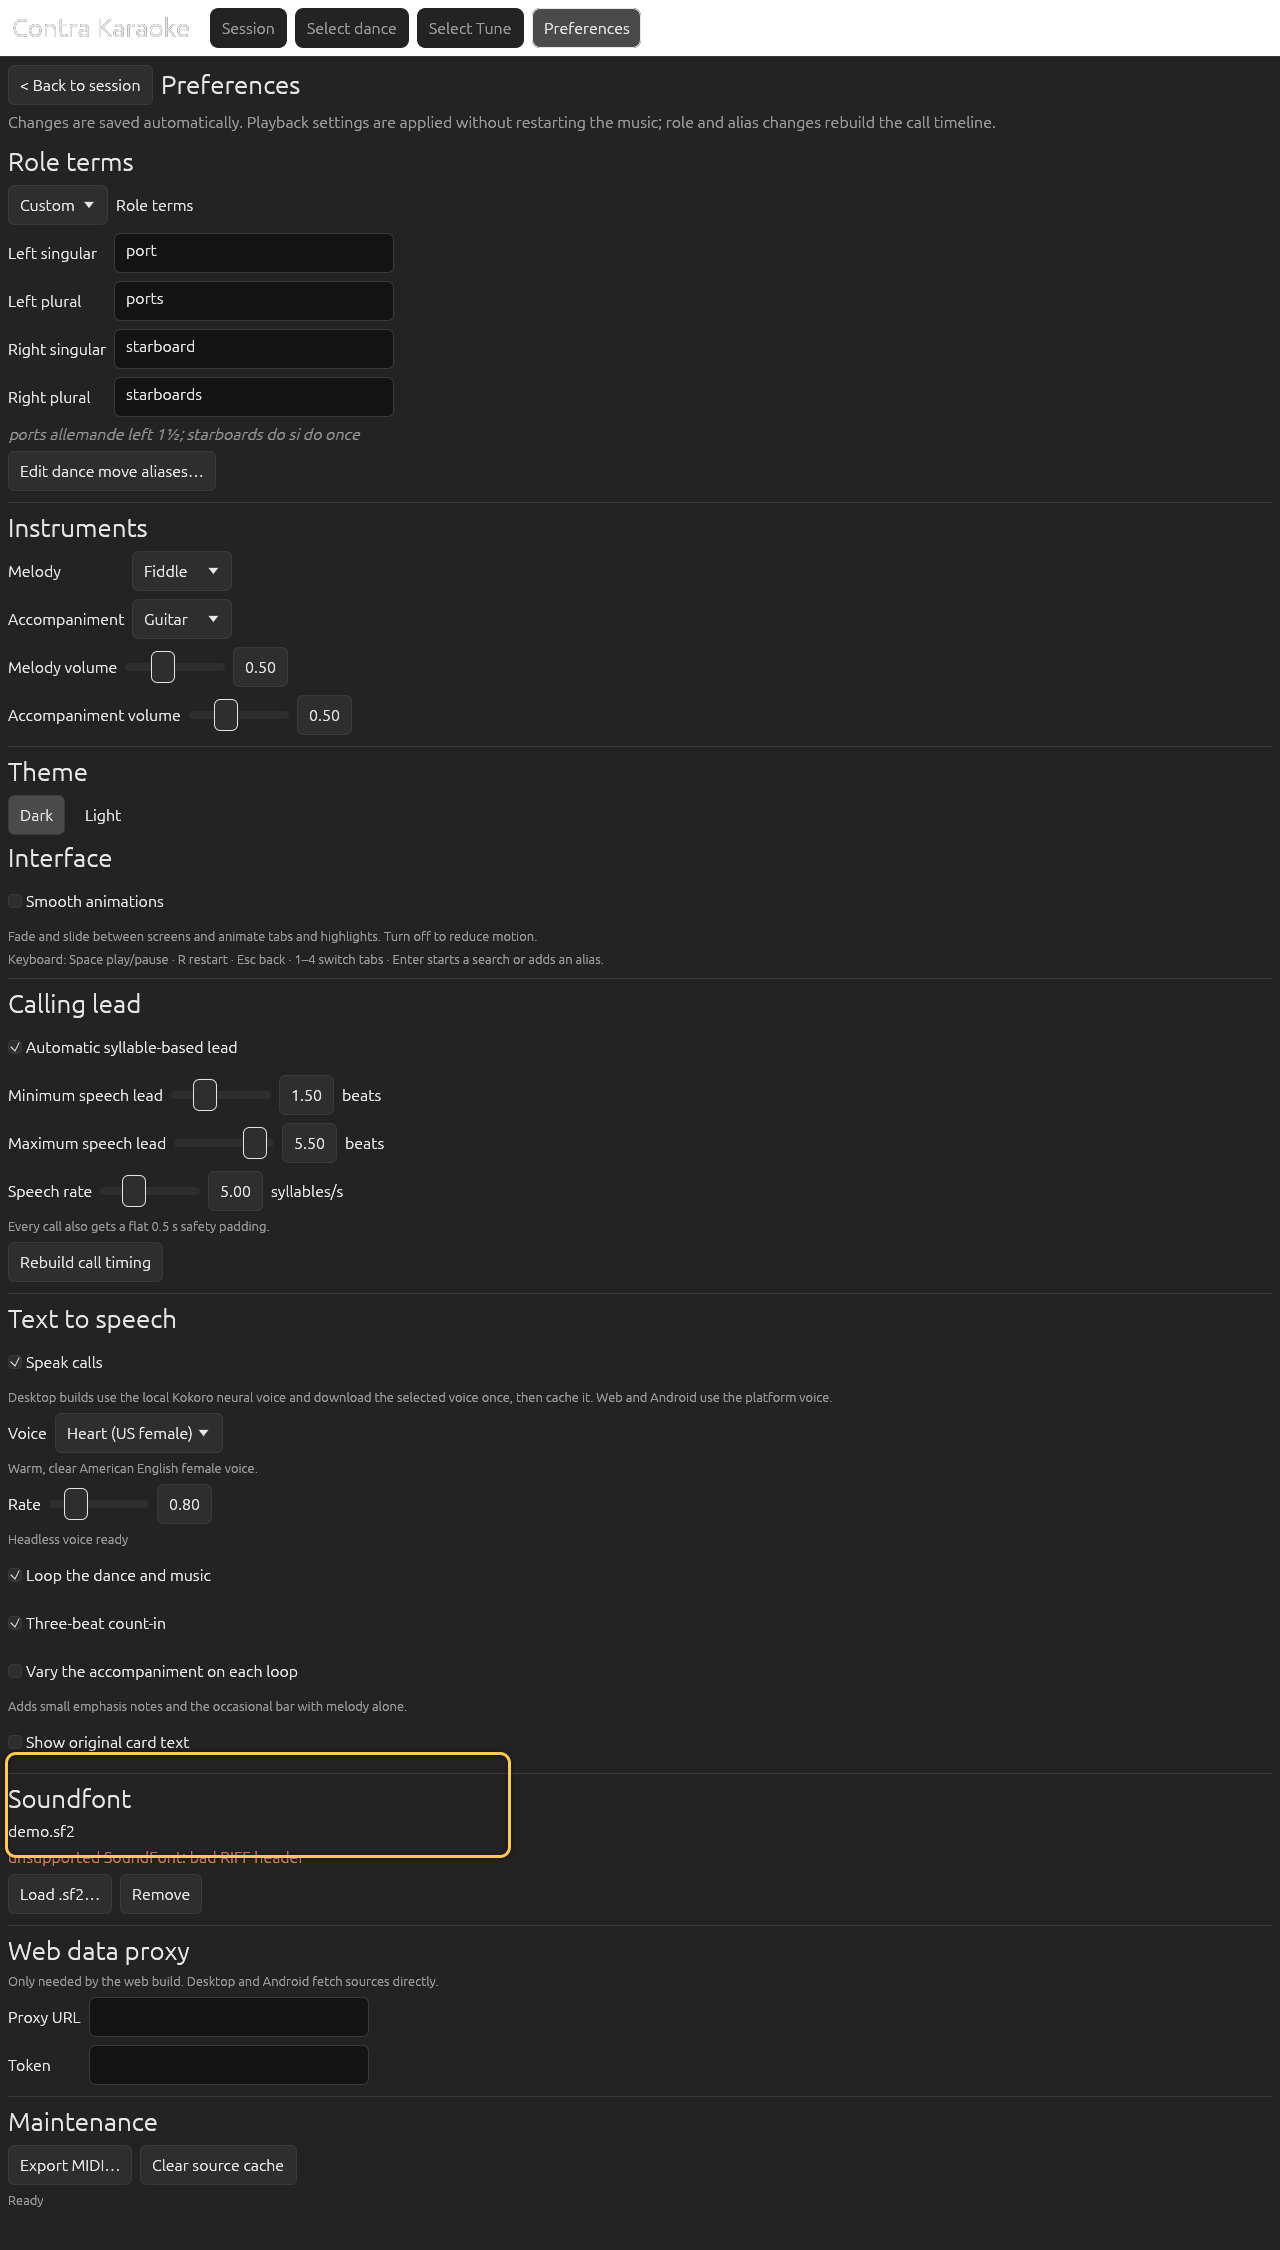
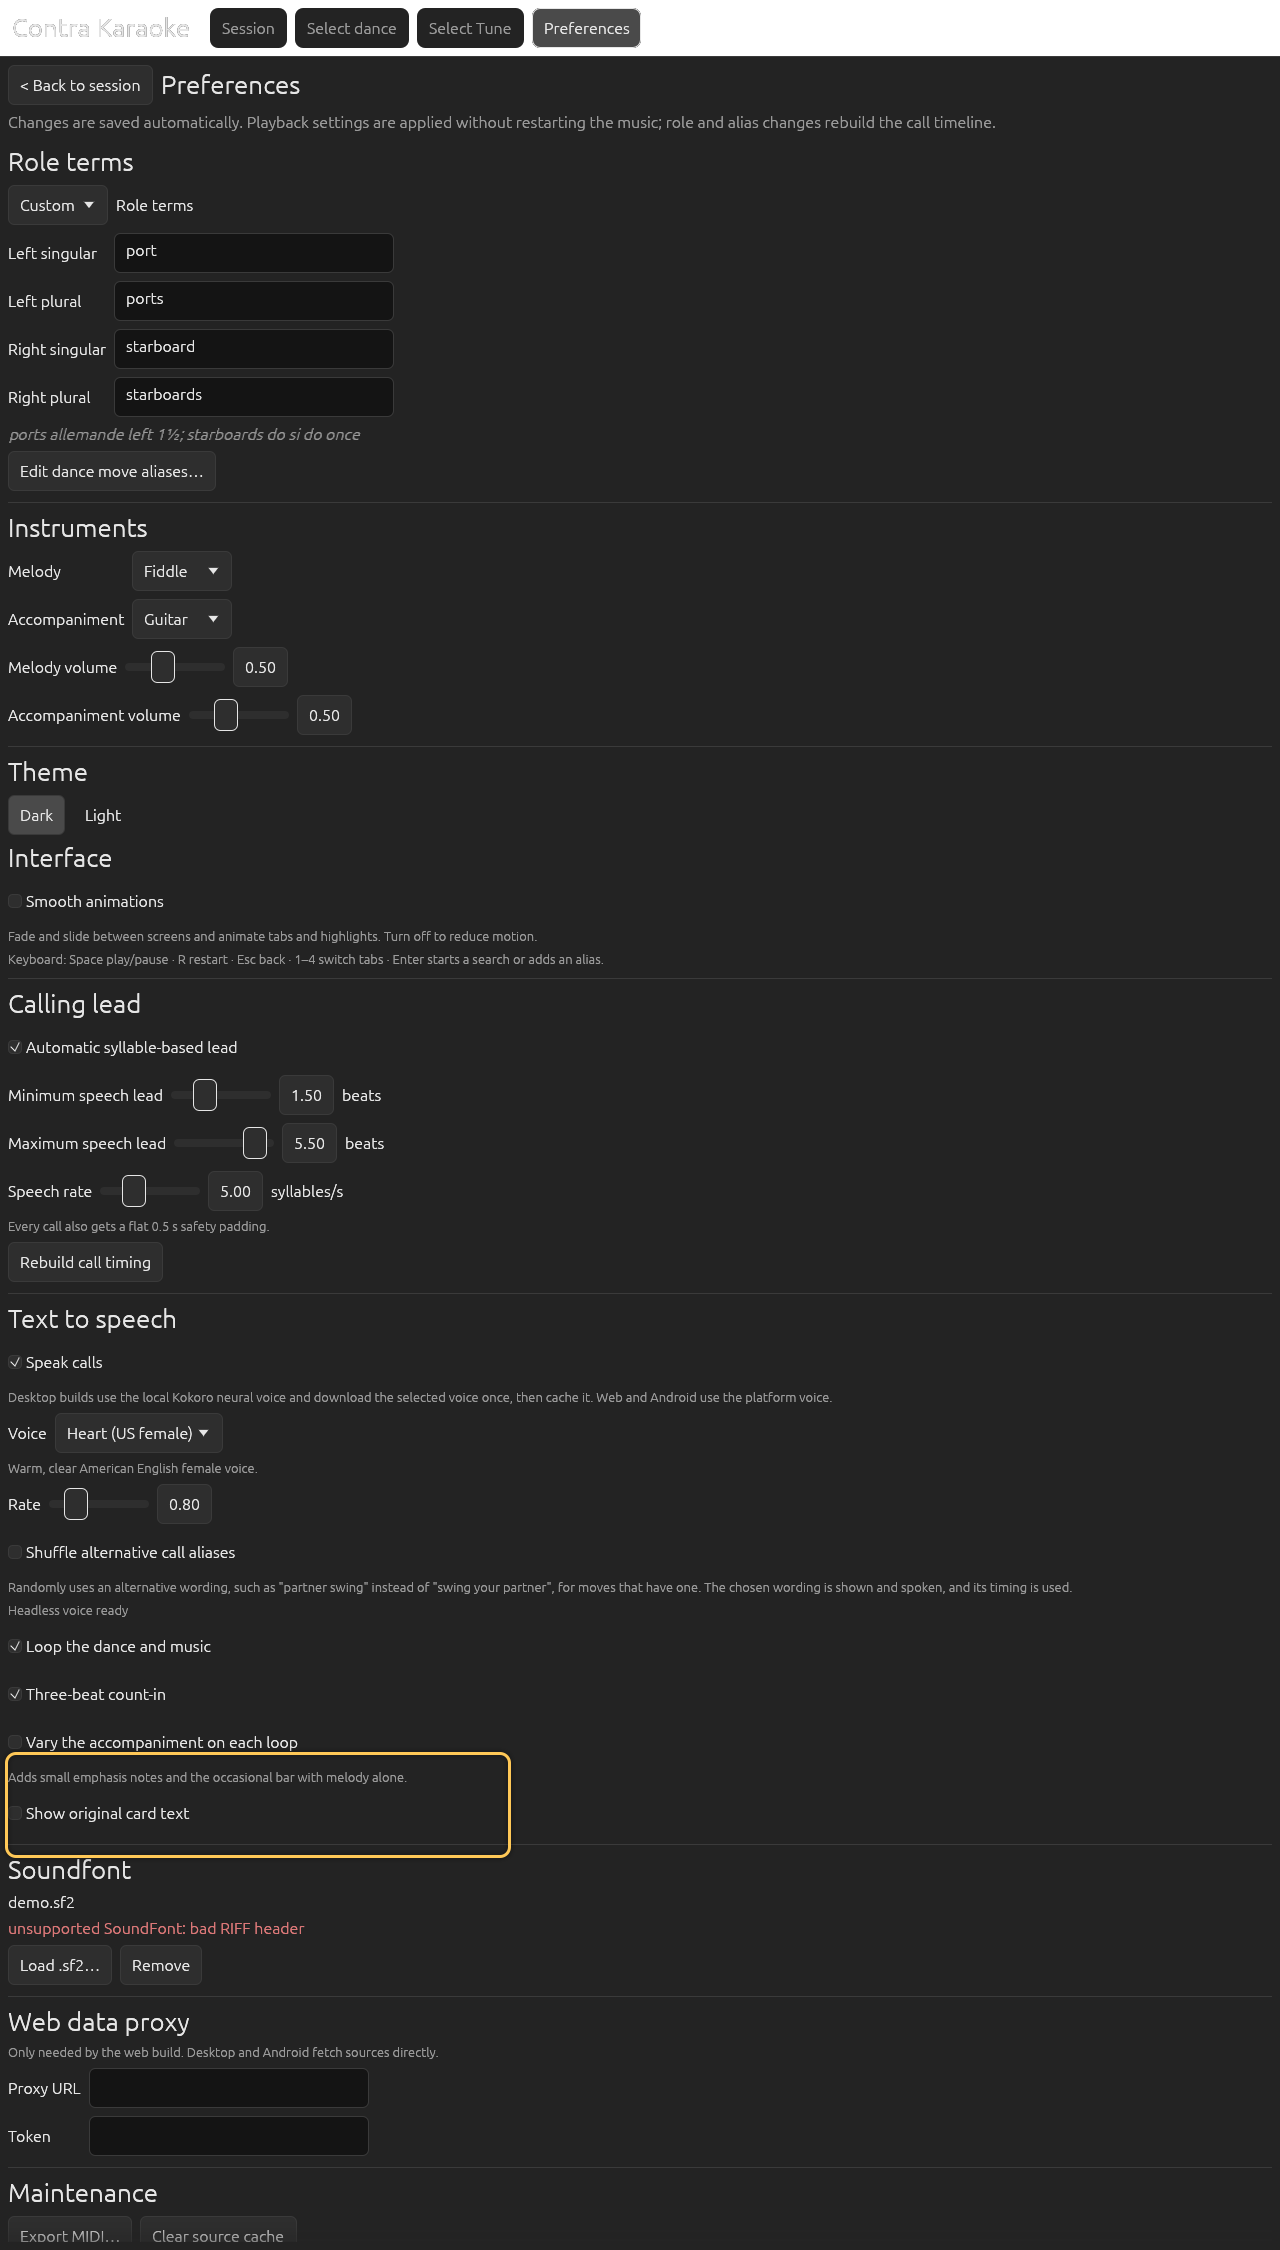
docs(website): cover alternative call aliases

Changed region(s): [[0.0, 0.6844, 0.2812, 0.9956], [0.1562, 0.9956, 0.2188, 1.0], [0.1875, 0.7467, 0.2188, 0.7778]]

diff --git a/crates/app/src/app.rs b/crates/app/src/app.rs
@@ -395,7 +395,7 @@ impl ContraApp {
 
         let dance = defaults::default_dance();
         let tune = defaults::default_tune();
-        let timeline = build_timeline(&dance, &prefs).unwrap_or_else(|_| empty_timeline());
+        let timeline = build_timeline(&dance, &prefs, 0).unwrap_or_else(|_| empty_timeline());
         let length_warning = length_warning_for(&dance, &tune);
 
         theme::apply(&cc.egui_ctx, prefs.theme, prefs.animations_enabled);
@@ -449,6 +449,8 @@ impl ContraApp {
             alias_filter: String::new(),
             custom_key: String::new(),
             custom_alias: String::new(),
+            alternative_inputs: std::collections::BTreeMap::new(),
+            alias_seed: 0,
         }
     }
 

diff --git a/docs/DOCS_WEBSITE_PLAN.md b/docs/DOCS_WEBSITE_PLAN.md
@@ -1,7 +1,7 @@
 # Documentation Website and Automated Screenshot Plan
 
 **Status:** documentation complete; 69 in-app screenshots rendered headlessly
-**Baseline:** local `main` at `0973cc9`
+**Baseline:** local `main` at `67ad921`
 **Date:** 2026-11-14
 **Owner:** docs track, running alongside app generation
 **Targets:** Docusaurus 3.10 · Node 24 LTS · `egui`/`eframe` 0.37 · `egui_kittest` 0.37 · Rust 1.95
@@ -56,7 +56,7 @@ that now exists on `main`.
 - Many inputs are not associated with their labels, and several labels repeat
   (`Preview`, `Reset to default`). The headless renderer disables the automatic
   accessibility check; a label pass remains future work.
-- The branch is rebased onto `main` at `0973cc9`. The `mcp` crate and
+- The branch is rebased onto `main` at `67ad921`. The `mcp` crate and
   `inspection` feature add a live-app automation path; the docs screenshots use
   the separate headless binary instead.
 
@@ -184,7 +184,7 @@ real app.
 | Data | Bundled defaults + synthetic fixtures, offline | Deterministic, no network, no licensing surprises |
 | Storage | PNGs committed under `website/static/img/screens/` | Reviewable diffs, fast docs builds |
 | Instruction API | `<Step shot="id">` MDX component | Makes “instruction without screenshot” impossible |
-| App baseline | `0973cc9`, headless renderer added | Library, `contra-headless`, sheet-music preview, keyboard shortcuts, Kokoro voices, and live MCP inspection exist |
+| App baseline | `67ad921`, headless renderer added | Library, `contra-headless`, sheet-music preview, keyboard shortcuts, Kokoro voices, and live MCP inspection exist |
 | Manual images | Windows/Android OS dialogs only | Automating OS UI is disproportionate for three images |
 | Analytics | None | Matches app privacy rules |
 
@@ -661,7 +661,7 @@ prefs are fixed.
 {
   "schemaVersion": 1,
   "appVersion": "0.1.0",
-  "appCommit": "0973cc9",
+  "appCommit": "67ad921",
   "egui": "0.37.0",
   "renderer": "wgpu-vulkan-llvmpipe",
   "shots": {

diff --git a/website/docs/guides/aliases.md b/website/docs/guides/aliases.md
@@ -65,6 +65,20 @@ Unknown placeholders are left as literal text, so a typo is visible in the
 session rather than silently disappearing. Empty placeholders are removed and
 extra spaces are cleaned up.
 
+## Alternative calls
+
+A move can have more than one natural wording. Swing, for example, can be
+`swing your partner` or `partner swing`. **Preferences → Text to speech** has a
+**Shuffle alternative call aliases** checkbox. When it is on, the app chooses one
+usable wording for each figure, including the active template, and shows and
+speaks that choice. The chosen wording also determines the lead time.
+
+The alias editor lists the built-in alternatives under a move. Add your own in
+**add an alternative call** and press **Enter** or select **Add alternative**;
+your alternatives are marked and can be removed individually. Shuffling is off
+by default so calls stay predictable; selecting a new dance advances the shuffle.
+Turning it off returns every call to its active template.
+
 ## Reset
 
 <Steps>

diff --git a/website/docs/reference/how-calls-are-timed.md b/website/docs/reference/how-calls-are-timed.md
@@ -87,6 +87,11 @@ The estimator is deliberately approximate:
 The alias is the caller's control surface. If the estimate feels wrong, change
 the alias or switch to a manual lead.
 
+When **Shuffle alternative call aliases** is on, the app selects one usable
+wording for each figure and uses that text for both display and lead timing. The
+shuffle seed is stable for a session, so the same card produces the same calls
+until the dance or shuffle setting changes.
+
 ## The first call is allowed to be negative
 
 A call is placed before its execute beat. For the first figure, that means the

diff --git a/website/docs/reference/keyboard-shortcuts.md b/website/docs/reference/keyboard-shortcuts.md
@@ -27,7 +27,7 @@ not start or stop the music.
 - **1–4** are ignored while a text field has focus, so typing a number does not
   change tabs.
 - **Enter** in a search field submits the current filters; in the custom alias
-  fields it adds the alias when both fields are filled.
+  or alternative-call fields it adds the entry when both fields are filled.
 - On a browser, click the app once before using Space so the canvas has focus.
   If the page scrolls instead, click the session background and try again.
 

diff --git a/website/docs/guides/text-to-speech.md b/website/docs/guides/text-to-speech.md
@@ -46,6 +46,10 @@ progress bar while the voice is prepared; later runs load it from the cache. If
 preparation fails, desktop shows **Retry neural voice** and continues with the
 platform voice.
 
+The same section has **Shuffle alternative call aliases**, which varies the call
+wording when the alias table has alternatives. Its behaviour is described in
+[Dance move aliases](/docs/guides/aliases#alternative-calls).
+
 ## Set the rate
 
 <Steps>
